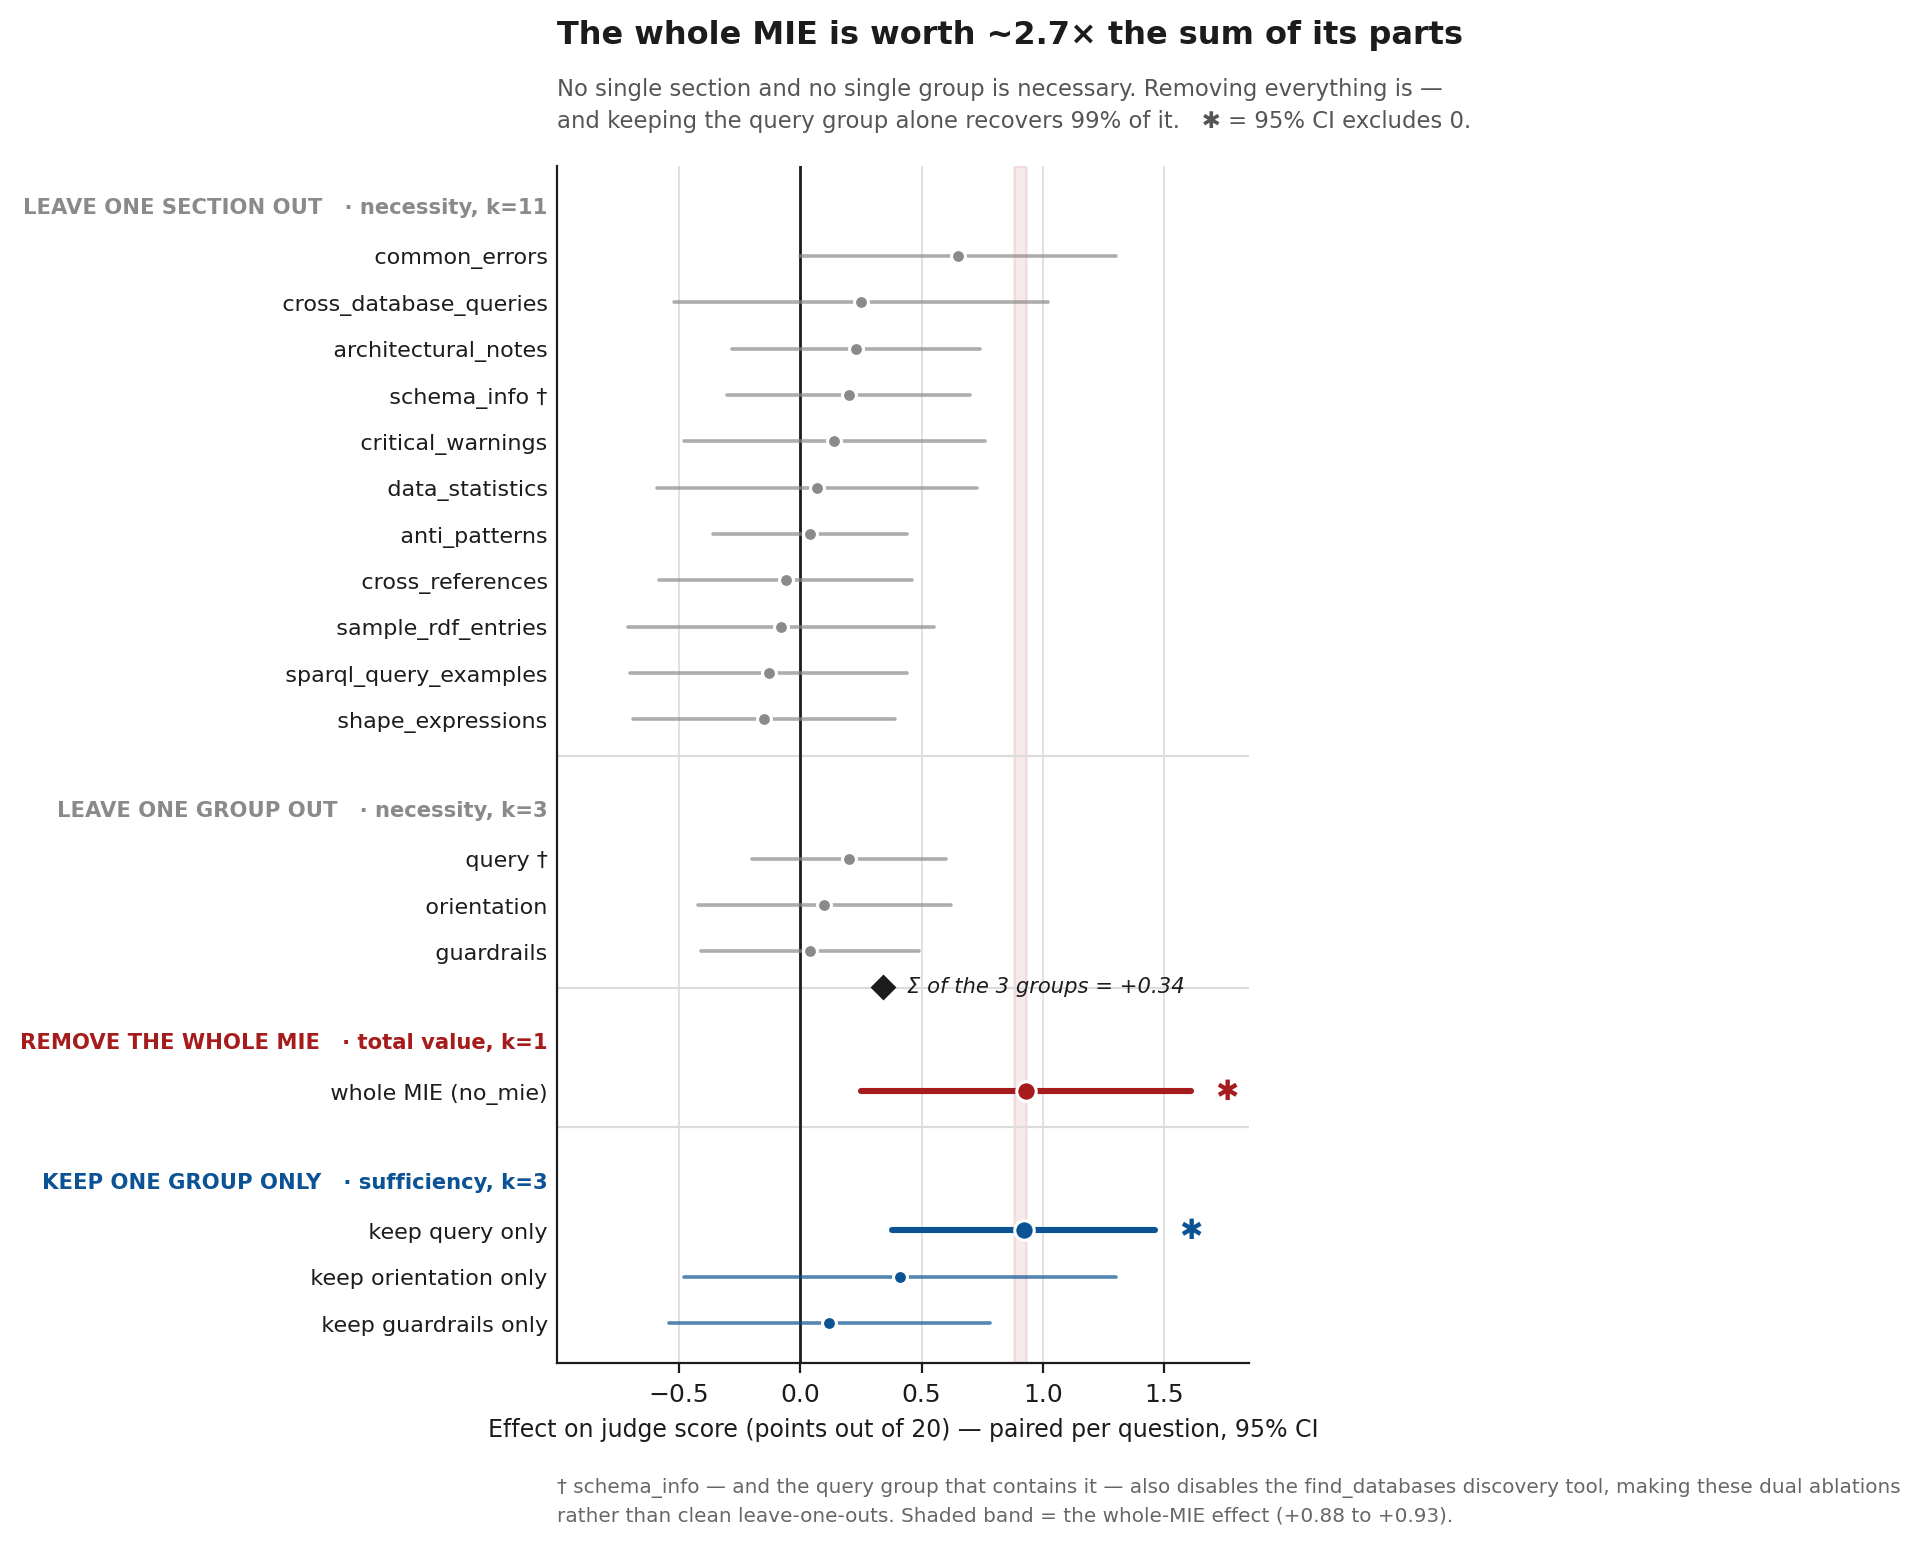
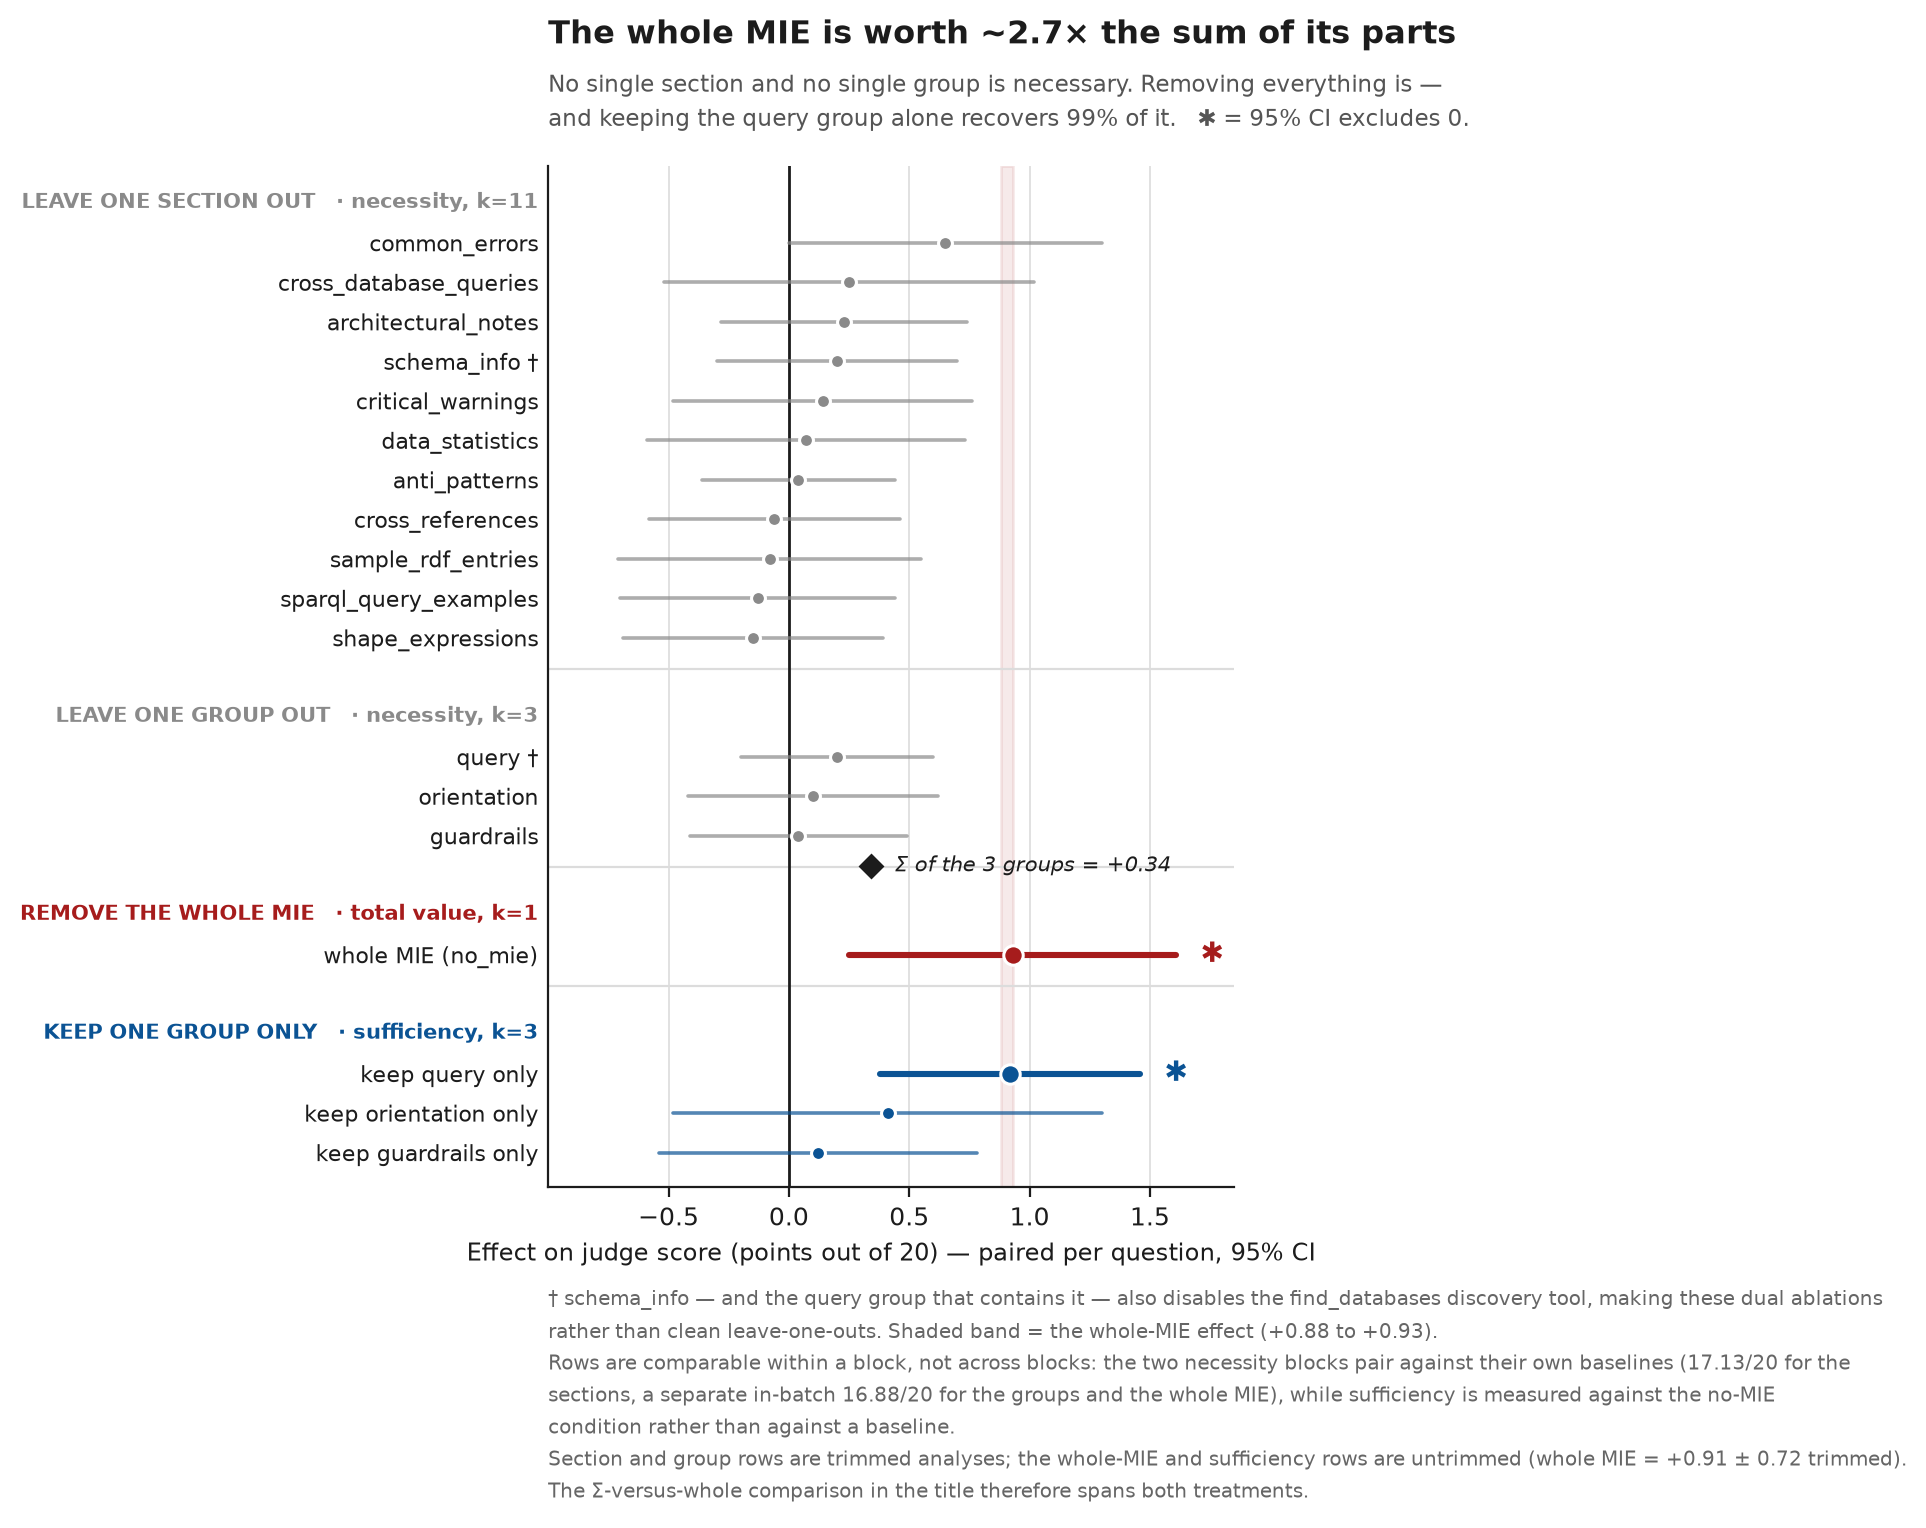
figs: state Figure 1's reference conditions and trimming treatment
The four blocks are not measured against a common reference: the section
rows pair against the section-sweep baseline (17.13/20), the group and
whole-MIE rows against a separate in-batch baseline (16.88/20), and the
sufficiency rows against the no-MIE condition. The paper says so in
prose; the shared axis did not. Section and group rows are also trimmed
analyses while the whole-MIE and sufficiency rows are untrimmed, which
the ~2.7x headline spans.

Both now appear in the figure footnote. Data and layout are unchanged.

diff --git a/paper/figs.py b/paper/figs.py
@@ -137,7 +137,15 @@ def redundancy_arc():
             "† schema_info — and the query group that contains it — also disables the "
             "find_databases discovery tool, making these dual ablations\n"
             "rather than clean leave-one-outs. Shaded band = the whole-MIE effect "
-            "(+0.88 to +0.93).",
+            "(+0.88 to +0.93).\n"
+            "Rows are comparable within a block, not across blocks: the two necessity "
+            "blocks pair against their own baselines (17.13/20 for the\n"
+            "sections, a separate in-batch 16.88/20 for the groups and the whole MIE), "
+            "while sufficiency is measured against the no-MIE\n"
+            "condition rather than against a baseline.\n"
+            "Section and group rows are trimmed analyses; the whole-MIE and sufficiency "
+            "rows are untrimmed (whole MIE = +0.91 ± 0.72 trimmed).\n"
+            "The Σ-versus-whole comparison in the title therefore spans both treatments.",
             transform=ax.transAxes, fontsize=7.2, color="#666666",
             va="top", linespacing=1.6)
 
